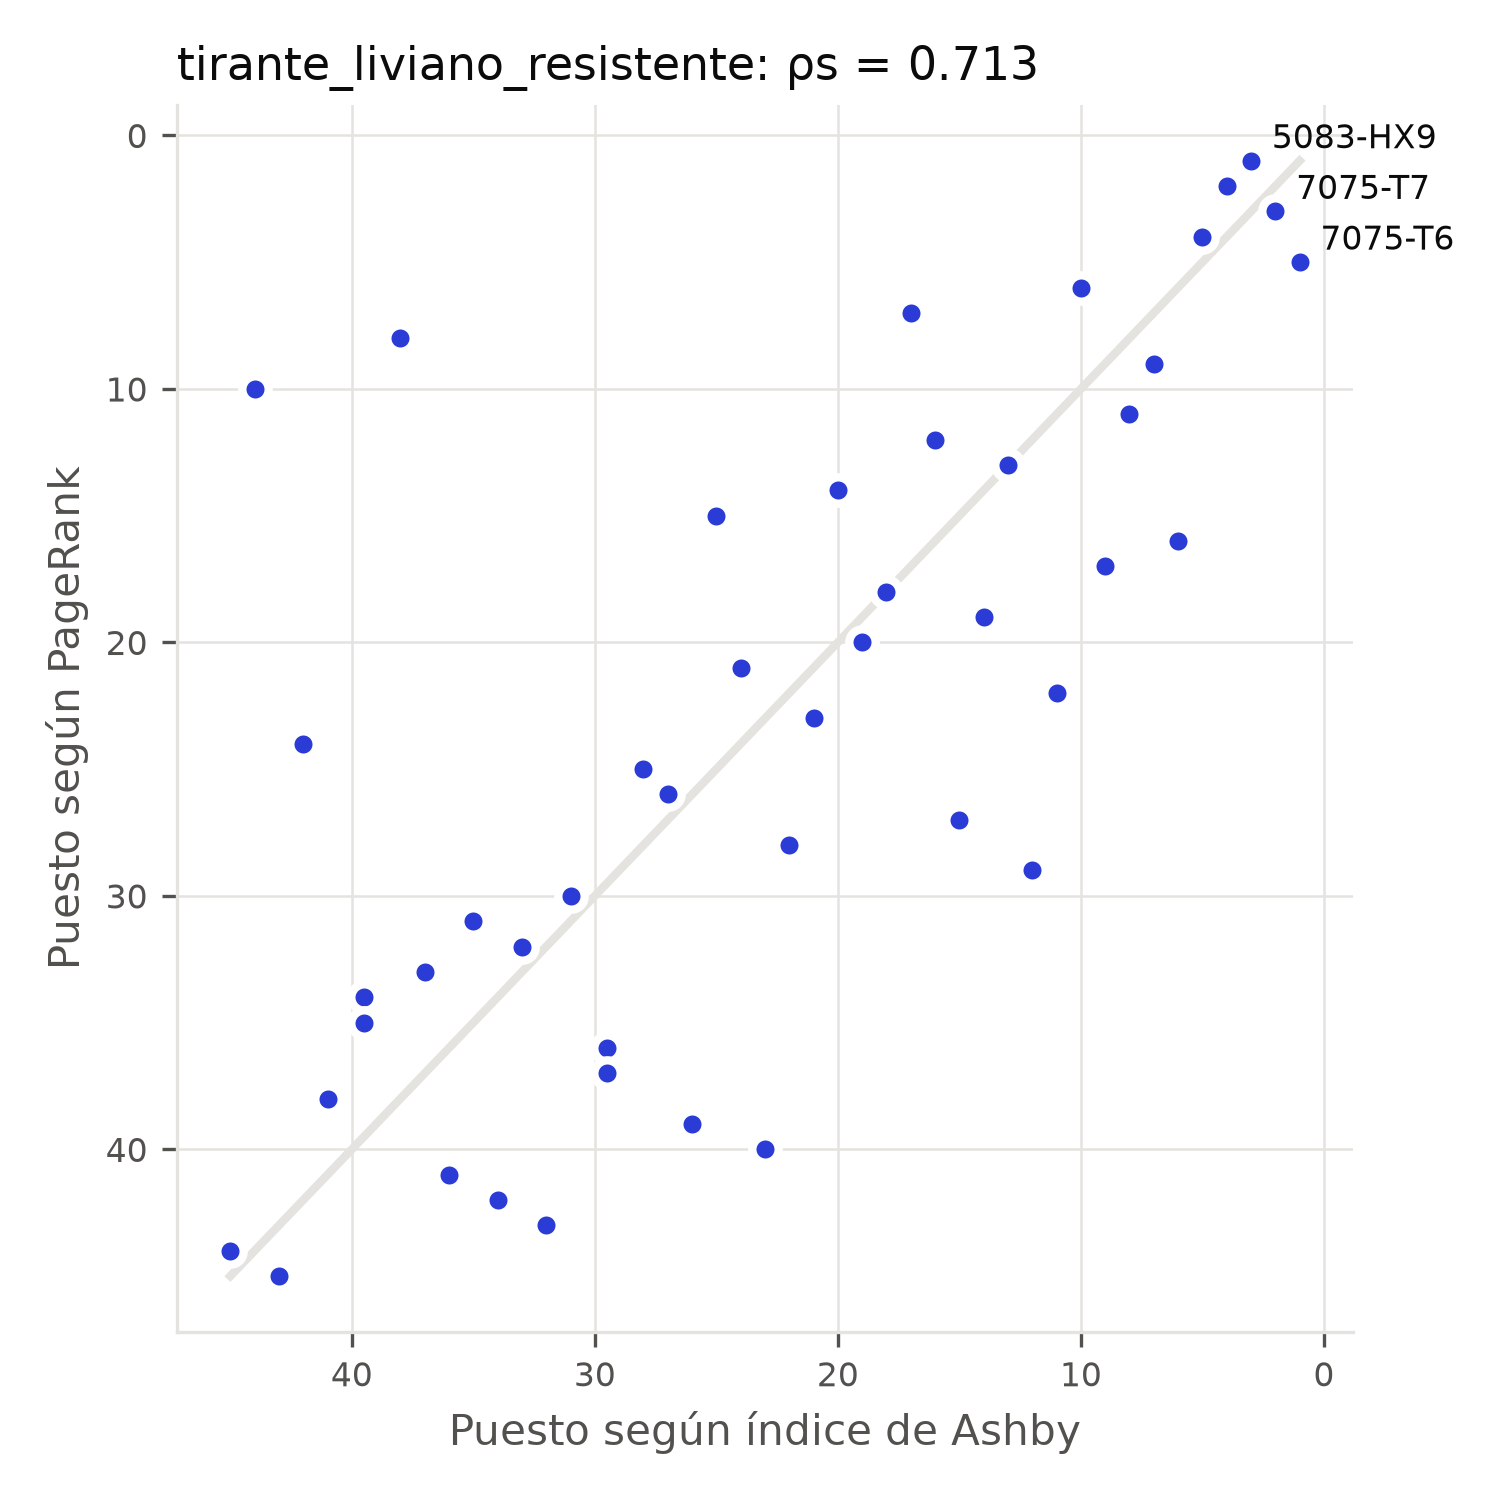
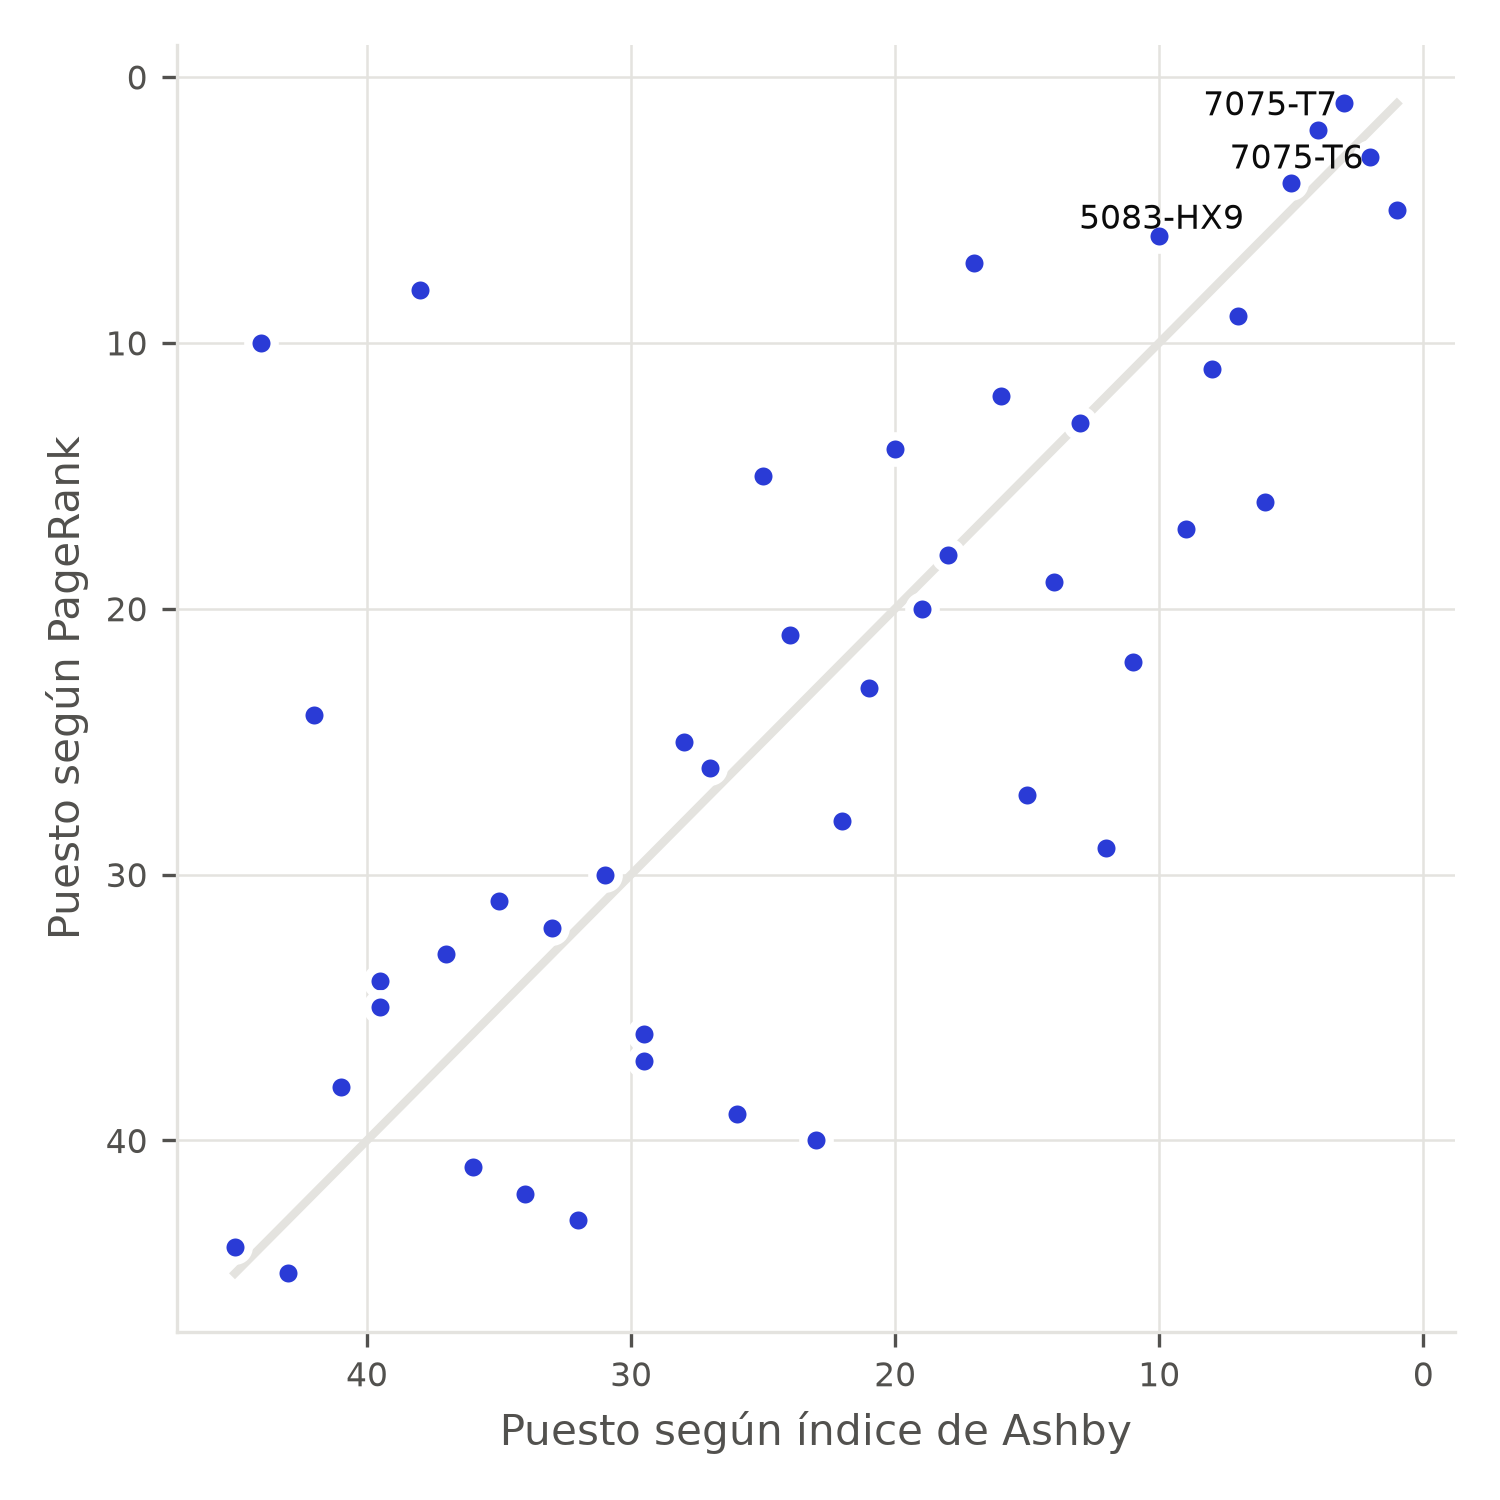
Actualiza funciones de visualización para mejorar la anotación de gráficos y elimina títulos innecesarios. Agrega pruebas unitarias para verificar la generación de figuras.

diff --git a/src/smo/visualizacion.py b/src/smo/visualizacion.py
@@ -23,8 +23,7 @@ TINTA, TINTA_2, GRILLA = "#0b0b0b", "#52514e", "#e4e3df"
 CATEGORICOS = [AZUL, NARANJA, AQUA]
 
 
-def _estilo(ax, titulo: str, xlabel: str, ylabel: str) -> None:
-    ax.set_title(titulo, loc="left", fontsize=11, color=TINTA)
+def _estilo(ax, xlabel: str, ylabel: str) -> None:
     ax.set_xlabel(xlabel, color=TINTA_2)
     ax.set_ylabel(ylabel, color=TINTA_2)
     ax.tick_params(colors=TINTA_2, labelsize=8)
@@ -36,8 +35,58 @@ def _estilo(ax, titulo: str, xlabel: str, ylabel: str) -> None:
         ax.spines[s].set_color(GRILLA)
 
 
+def _anotar_sin_solapamiento(ax, etiquetas: list[tuple[str, tuple[float, float], dict]]) -> None:
+    if not etiquetas:
+        return
+
+    fig = ax.figure
+    dpi = fig.dpi
+    fig.set_dpi(100)
+    try:
+        fig.canvas.draw()
+        renderer = fig.canvas.get_renderer()
+        ocupadas = []
+        direcciones = [(1, 1), (1, -1), (-1, 1), (-1, -1), (0, 1), (0, -1), (1, 0), (-1, 0)]
+        desplazamientos = [(dx * radio, dy * radio) for radio in (8, 16, 24, 32, 40, 52, 64)
+                           for dx, dy in direcciones]
+
+        for texto, posicion, estilo in etiquetas:
+            parametros = {"fontsize": 8, "color": TINTA, "zorder": 4, **estilo}
+            anotacion = ax.annotate(texto, posicion, textcoords="offset points", **parametros)
+            mejor_posicion = desplazamientos[0]
+            mejor_puntaje = float("inf")
+            for dx, dy in desplazamientos:
+                anotacion.set_position((dx, dy))
+                anotacion.set_ha("left" if dx >= 0 else "right")
+                anotacion.set_va("bottom" if dy >= 0 else "top")
+                fig.canvas.draw()
+                caja = anotacion.get_window_extent(renderer)
+                interseccion = sum(
+                    max(0, min(caja.x1, otra.x1) - max(caja.x0, otra.x0))
+                    * max(0, min(caja.y1, otra.y1) - max(caja.y0, otra.y0))
+                    for otra in ocupadas
+                )
+                dentro = caja.width * caja.height - max(
+                    0, min(caja.x1, ax.bbox.x1) - max(caja.x0, ax.bbox.x0)
+                ) * max(0, min(caja.y1, ax.bbox.y1) - max(caja.y0, ax.bbox.y0))
+                puntaje = interseccion + dentro * 2
+                if puntaje < mejor_puntaje:
+                    mejor_puntaje = puntaje
+                    mejor_posicion = (dx, dy)
+                if puntaje == 0:
+                    break
+
+            anotacion.set_position(mejor_posicion)
+            anotacion.set_ha("left" if mejor_posicion[0] >= 0 else "right")
+            anotacion.set_va("bottom" if mejor_posicion[1] >= 0 else "top")
+            fig.canvas.draw()
+            ocupadas.append(anotacion.get_window_extent(renderer))
+    finally:
+        fig.set_dpi(dpi)
+
+
 def red_sobre_carta(H: nx.MultiDiGraph, comparacion: pd.DataFrame, nodos: pd.DataFrame,
-                    ejes: tuple[str, str], nombres: dict, titulo: str, salida: Path,
+                    ejes: tuple[str, str], nombres: dict, salida: Path,
                     etiquetas: int = 5) -> Path:
     x, y = ejes
     fig, ax = plt.subplots(figsize=(8, 6), dpi=300)
@@ -53,34 +102,37 @@ def red_sobre_carta(H: nx.MultiDiGraph, comparacion: pd.DataFrame, nodos: pd.Dat
     for n in comparacion.index:
         ax.scatter(*pos[n], s=tam[n], color=AZUL, alpha=float(alfa[n]),
                    edgecolors="white", linewidths=2, zorder=3)
-    destacados = set(comparacion.nsmallest(etiquetas, "puesto").index)
-    for n in destacados:
-        ax.annotate(f"{n} (#{comparacion.at[n, 'puesto']})", pos[n], xytext=(6, 6),
-                    textcoords="offset points", fontsize=8, color=TINTA, zorder=4)
+    etiquetas_nodos = [
+        (f"{n} (#{comparacion.at[n, 'puesto']})", pos[n], {})
+        for n in comparacion.nsmallest(etiquetas, "puesto").index
+    ]
     mejor_ashby = comparacion["indice_ashby"].idxmax()
-    ax.annotate(f"mejor Ashby: {mejor_ashby}", pos[mejor_ashby], xytext=(6, -12),
-                textcoords="offset points", fontsize=8, color=TINTA_2, style="italic", zorder=4)
-    _estilo(ax, titulo, nombres[x], nombres[y])
-    ax.text(0.0, -0.13, "Tamaño del nodo = puntaje PageRank · flechas = aristas de la sub-red de trabajo",
-            transform=ax.transAxes, fontsize=8, color=TINTA_2)
+    etiquetas_nodos.append(
+        (f"mejor Ashby: {mejor_ashby}", pos[mejor_ashby],
+         {"color": TINTA_2, "fontstyle": "italic"})
+    )
+    _estilo(ax, nombres[x], nombres[y])
     fig.tight_layout()
+    _anotar_sin_solapamiento(ax, etiquetas_nodos)
     fig.savefig(salida)
     plt.close(fig)
     return salida
 
 
-def puestos(comparacion: pd.DataFrame, titulo: str, salida: Path) -> Path:
+def puestos(comparacion: pd.DataFrame, salida: Path) -> Path:
     fig, ax = plt.subplots(figsize=(5, 5), dpi=300)
     n = len(comparacion)
     ax.plot([1, n], [1, n], color=GRILLA, lw=2, zorder=1)
     ax.scatter(comparacion["puesto_ashby"], comparacion["puesto"], s=40, color=AZUL,
                edgecolors="white", linewidths=2, zorder=3)
-    for idx in comparacion.nsmallest(3, "puesto_ashby").index:
-        ax.annotate(idx, (comparacion.at[idx, "puesto_ashby"], comparacion.at[idx, "puesto"]),
-                    xytext=(5, 3), textcoords="offset points", fontsize=8, color=TINTA)
-    _estilo(ax, titulo, "Puesto según índice de Ashby", "Puesto según PageRank")
+    etiquetas = [
+        (idx, (comparacion.at[idx, "puesto_ashby"], comparacion.at[idx, "puesto"]), {})
+        for idx in comparacion.nsmallest(3, "puesto_ashby").index
+    ]
+    _estilo(ax, "Puesto según índice de Ashby", "Puesto según PageRank")
     ax.invert_xaxis(); ax.invert_yaxis()
     fig.tight_layout()
+    _anotar_sin_solapamiento(ax, etiquetas)
     fig.savefig(salida)
     plt.close(fig)
     return salida
@@ -104,8 +156,7 @@ def sensibilidad(df: pd.DataFrame, salida: Path) -> Path:
                     fontsize=8, color=TINTA, va="center", annotation_clip=False)
     ax.set_ylim(top=max(1.0, finales[-1][0] + 0.05))
     ax.axhline(0, color=TINTA_2, lw=0.8)
-    _estilo(ax, "Acuerdo con Ashby según el ancho de vecindad",
-            "Vecindad (fracción del rango del atributo)", "Spearman ρs")
+    _estilo(ax, "Vecindad (fracción del rango del atributo)", "Spearman ρs")
     ax.legend(frameon=False, fontsize=8, loc="lower left")
     ax.set_xlim(right=df["fraccion_rango"].max() * 1.6)
     fig.tight_layout()

diff --git a/tests/test_visualizacion.py b/tests/test_visualizacion.py
@@ -1,0 +1,70 @@
+"""Pruebas de las figuras generadas."""
+import tempfile
+import unittest
+from pathlib import Path
+from unittest.mock import patch
+
+import matplotlib.pyplot as plt
+import networkx as nx
+import pandas as pd
+
+from smo.visualizacion import _anotar_sin_solapamiento, puestos, red_sobre_carta, sensibilidad
+
+
+class TestVisualizacion(unittest.TestCase):
+    def tearDown(self):
+        plt.close("all")
+
+    def test_etiquetas_no_se_solapan(self):
+        fig, ax = plt.subplots(figsize=(5, 4))
+        etiquetas = [
+            (f"Aleacion-{i}", (0.5, 0.5), {})
+            for i in range(5)
+        ]
+
+        _anotar_sin_solapamiento(ax, etiquetas)
+
+        fig.canvas.draw()
+        cajas = [texto.get_window_extent(fig.canvas.get_renderer()) for texto in ax.texts]
+        for i, caja in enumerate(cajas):
+            for otra in cajas[i + 1:]:
+                self.assertFalse(caja.overlaps(otra))
+
+    def test_figuras_sin_titulos_ni_pie(self):
+        with tempfile.TemporaryDirectory() as temporal, patch("smo.visualizacion.plt.close"):
+            carpeta = Path(temporal)
+            indice = ["A-1", "B-2", "C-3"]
+            nodos = pd.DataFrame({"x": [1.0, 1.01, 1.02], "y": [2.0, 2.01, 2.02]},
+                                 index=indice)
+            comparacion = pd.DataFrame({
+                "pagerank": [0.6, 0.3, 0.1],
+                "puesto": [1, 2, 3],
+                "indice_ashby": [3.0, 2.0, 1.0],
+                "puesto_ashby": [1, 2, 3],
+            }, index=indice)
+            red_sobre_carta(nx.MultiDiGraph(), comparacion, nodos, ("x", "y"),
+                            {"x": "Eje X", "y": "Eje Y"}, carpeta / "red.png")
+            puestos(comparacion, carpeta / "puestos.png")
+            sensibilidad(pd.DataFrame({
+                "caso": ["A", "A", "B", "B"],
+                "fraccion_rango": [0.05, 0.1, 0.05, 0.1],
+                "spearman": [0.8, 0.9, 0.7, 0.85],
+            }), carpeta / "sensibilidad.png")
+
+            figuras = [plt.figure(numero) for numero in plt.get_fignums()]
+            self.assertEqual(len(figuras), 3)
+            for figura in figuras:
+                ax = figura.axes[0]
+                self.assertEqual(ax.get_title(), "")
+                self.assertFalse(any("Tamaño del nodo" in texto.get_text() for texto in ax.texts))
+                figura.canvas.draw()
+                cajas = [texto.get_window_extent(figura.canvas.get_renderer()) for texto in ax.texts]
+                for i, caja in enumerate(cajas):
+                    for otra in cajas[i + 1:]:
+                        self.assertFalse(caja.overlaps(otra))
+            self.assertTrue(all((carpeta / nombre).is_file()
+                                for nombre in ("red.png", "puestos.png", "sensibilidad.png")))
+
+
+if __name__ == "__main__":
+    unittest.main()

diff --git a/src/smo/pipeline.py b/src/smo/pipeline.py
@@ -87,9 +87,8 @@ def ejecutar(cfg: dict) -> pd.DataFrame:
         metricas.append(met)
         comp.to_csv(out / f"ranking_{nombre}.csv", float_format="%.5f")
         ejes = tuple(caso["criterios"])[::-1]   # x = densidad (2º criterio), y = 1º criterio
-        viz.red_sobre_carta(H, comp, nodos, ejes, nombres, caso["descripcion"],
-                            out / f"red_{nombre}.png")
-        viz.puestos(comp, f"{nombre}: ρs = {met['spearman']}", out / f"puestos_{nombre}.png")
+        viz.red_sobre_carta(H, comp, nodos, ejes, nombres, out / f"red_{nombre}.png")
+        viz.puestos(comp, out / f"puestos_{nombre}.png")
         nx.write_graphml(G, out / f"red_completa_{met['granularidad']}.graphml")
         print(f"2) {nombre}: {met}  red={resumen(G)}")
 
